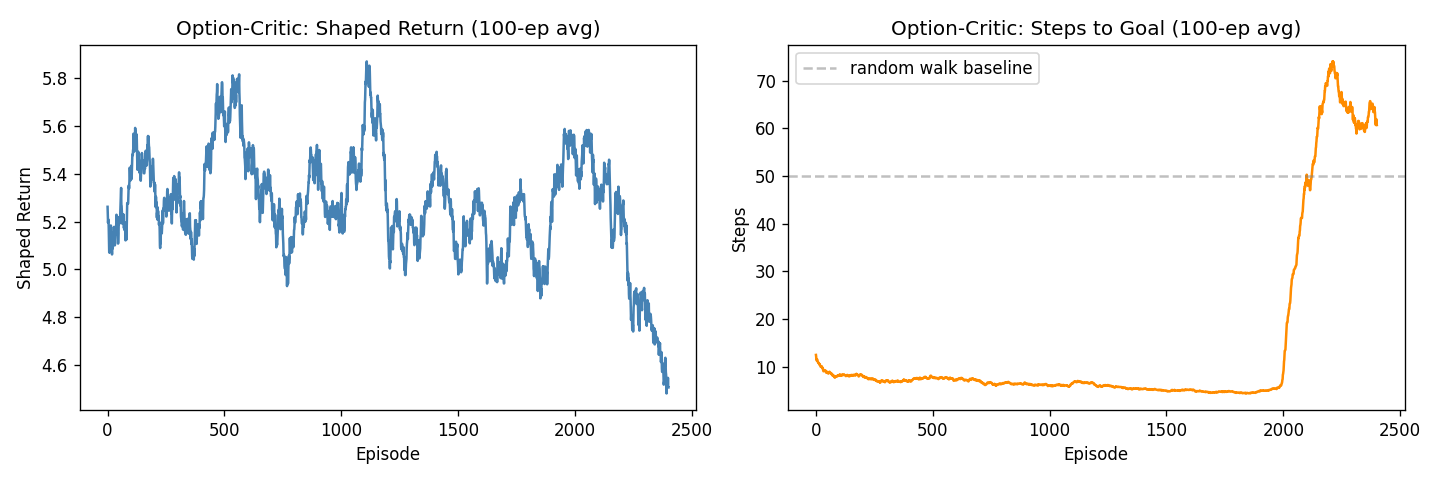
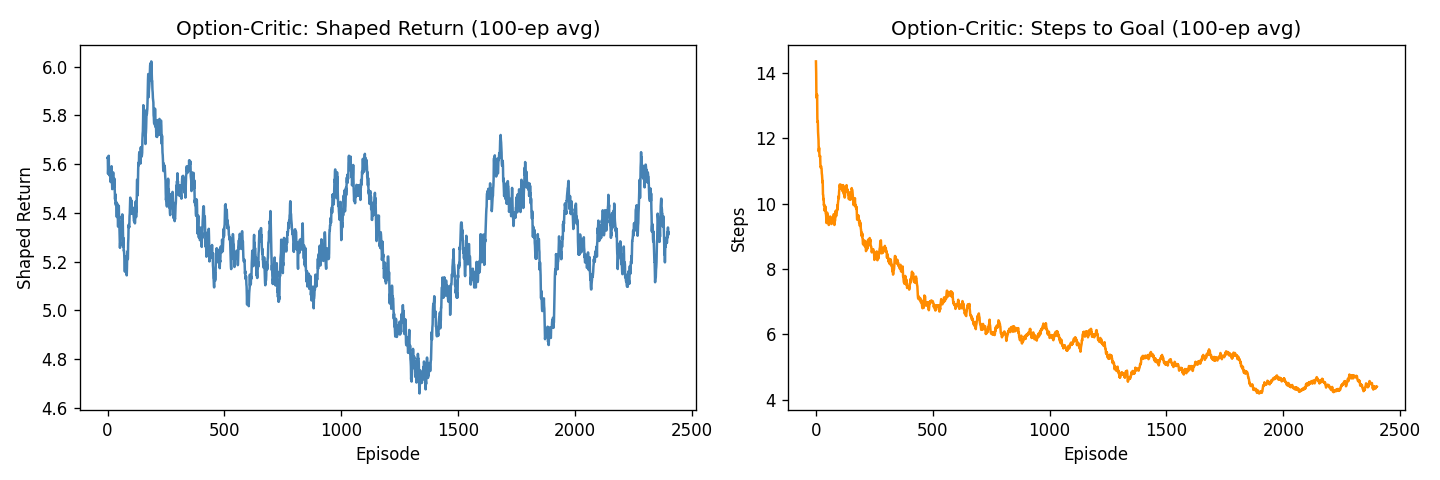
Refine Hierarchical RL implementations and documentation
Adjusts hyperparameters and loss functions for Option-Critic and long-horizon
tasks to improve stability. Key changes include:
- Increasing target network update frequency to every 50 episodes.
- Adding an entropy regularization term and a 0.01 deliberation cost to the
  Option-Critic loss.
- Reducing the Option-Critic learning rate from 3e-4 to 1e-4.
- Cleaning up documentation by removing internal README links and expanding
  definitions for NPC, Feudal Networks, and HIRO.
- Updating output visualization plots and removing the random walk baseline.

diff --git a/advanced_topics/hierarchical_rl/option_critic.py b/advanced_topics/hierarchical_rl/option_critic.py
@@ -112,7 +112,7 @@ class OptionCriticNet(nn.Module):
 
 class OptionCriticAgent:
     def __init__(self, n_states, n_actions, n_options=N_OPTIONS,
-                 lr=3e-4, gamma=0.99, buffer_size=8_000, batch=64):
+                 lr=1e-4, gamma=0.99, buffer_size=8_000, batch=64):
         self.gamma = gamma
         self.n_options = n_options
         self.batch = batch
@@ -175,15 +175,16 @@ class OptionCriticAgent:
         log_pi = torch.log(pi_o.gather(1, a.unsqueeze(1)).squeeze() + 1e-8)
         adv    = (tgt - q_pred).detach()
         loss_pi = -(log_pi * adv).mean()
+        entropy = -(pi_o * torch.log(pi_o + 1e-8)).sum(-1).mean()
 
-        # termination
+        # termination — deliberation cost prevents beta from collapsing to 1
         nh2   = self.net.body(ns)
         beta  = self.net.termination(nh2)[torch.arange(B), o]
         q_ns  = self.net.q(nh2)
         adv_t = (q_ns[torch.arange(B), o] - q_ns.max(1).values).detach()
-        loss_term = (beta * adv_t).mean()
+        loss_term = (beta * (adv_t + 0.01)).mean()
 
-        loss = loss_q + loss_pi + 0.01 * loss_term
+        loss = loss_q + loss_pi + 0.01 * loss_term - 0.01 * entropy
         self.opt.zero_grad()
         loss.backward()
         nn.utils.clip_grad_norm_(self.net.parameters(), 0.5)
@@ -194,7 +195,7 @@ class OptionCriticAgent:
 
 # ─── Training ─────────────────────────────────────────────────────────────────
 
-def train(n_episodes=2500, max_steps=100, target_update=150):
+def train(n_episodes=2500, max_steps=100, target_update=50):
     env   = GridWorld()
     agent = OptionCriticAgent(N_STATES, N_ACTIONS)
     returns, lengths = [], []
@@ -242,8 +243,6 @@ def plot_results(returns, lengths, out_dir="outputs"):
     axes[1].plot(l_sm, color="darkorange")
     axes[1].set_title("Option-Critic: Steps to Goal (100-ep avg)")
     axes[1].set_xlabel("Episode"); axes[1].set_ylabel("Steps")
-    axes[1].axhline(50, color="gray", linestyle="--", alpha=0.5, label="random walk baseline")
-    axes[1].legend()
 
     plt.tight_layout()
     path = f"{out_dir}/option_critic.png"

diff --git a/advanced_topics/hierarchical_rl/long_horizon_tasks.py b/advanced_topics/hierarchical_rl/long_horizon_tasks.py
@@ -200,7 +200,7 @@ def train_hierarchical(n_episodes=3000, max_steps=100):
             update(wnet, wtgt, wopt, wbuf)
             pos = npos; step += 1
 
-        if (ep + 1) % 250 == 0:
+        if (ep + 1) % 50 == 0:
             wtgt.load_state_dict(wnet.state_dict())
 
         success = env.has_key and (env.pos == DOOR_POS)

diff --git a/advanced_topics/hierarchical_rl/goal_conditioned_policy_explained.md b/advanced_topics/hierarchical_rl/goal_conditioned_policy_explained.md
@@ -81,9 +81,9 @@ Training runs for 3,000 episodes with a decaying exploration rate — the agent 
 | Robot arm reaching | Target 3-D position |
 | Self-driving car | GPS coordinate |
 | Language model assistant | User's instruction |
-| Video game NPC | Any waypoint on the map |
+| Video game Non-Player Character | Any waypoint on the map |
 
-Goal-conditioned policies are one of the key building blocks for [HIRO](../../README.md#hierarchical-rl) (Hierarchical RL with subgoals) — the high-level manager picks a subgoal, and the low-level worker is exactly this kind of goal-conditioned policy.
+Goal-conditioned policies are one of the key building blocks for HIRO (Hierarchical RL with subgoals) — the high-level manager picks a subgoal, and the low-level worker is exactly this kind of goal-conditioned policy.
 
 ---
 

diff --git a/advanced_topics/hierarchical_rl/long_horizon_tasks_explained.md b/advanced_topics/hierarchical_rl/long_horizon_tasks_explained.md
@@ -90,7 +90,7 @@ Two agents compete:
 | Language | Write a full research paper (many writing decisions, one quality score) |
 | Science | Run a multi-month experiment and evaluate results |
 
-This is exactly why [Feudal Networks](../../README.md#hierarchical-rl) and HIRO were invented — as flat RL hit walls on these problems, hierarchical decomposition became the dominant strategy.
+This is exactly why Feudal Networks (an architecture where managers set directional goals for lower-level workers) and HIRO (Hierarchical RL with subgoals) were invented — as flat RL hit walls on these problems, hierarchical decomposition became the dominant strategy.
 
 ---
 

diff --git a/advanced_topics/hierarchical_rl/option_critic_explained.md b/advanced_topics/hierarchical_rl/option_critic_explained.md
@@ -63,7 +63,7 @@ In a maze, the agent needs to reach a goal that may be 30–50 steps away. With 
 
 With options, the path breaks into **sub-tasks**. Each sub-task gets its own mini-reward signal (reaching the doorway, entering the next room). Learning propagates through shorter segments. **The agent learns faster on problems that require many steps.**
 
-This is the core idea behind all of [Hierarchical RL](../../README.md#hierarchical-rl) — and Option-Critic is one of its cleanest implementations.
+This is the core idea behind all of Hierarchical RL — and Option-Critic is one of its cleanest implementations.
 
 ---
 